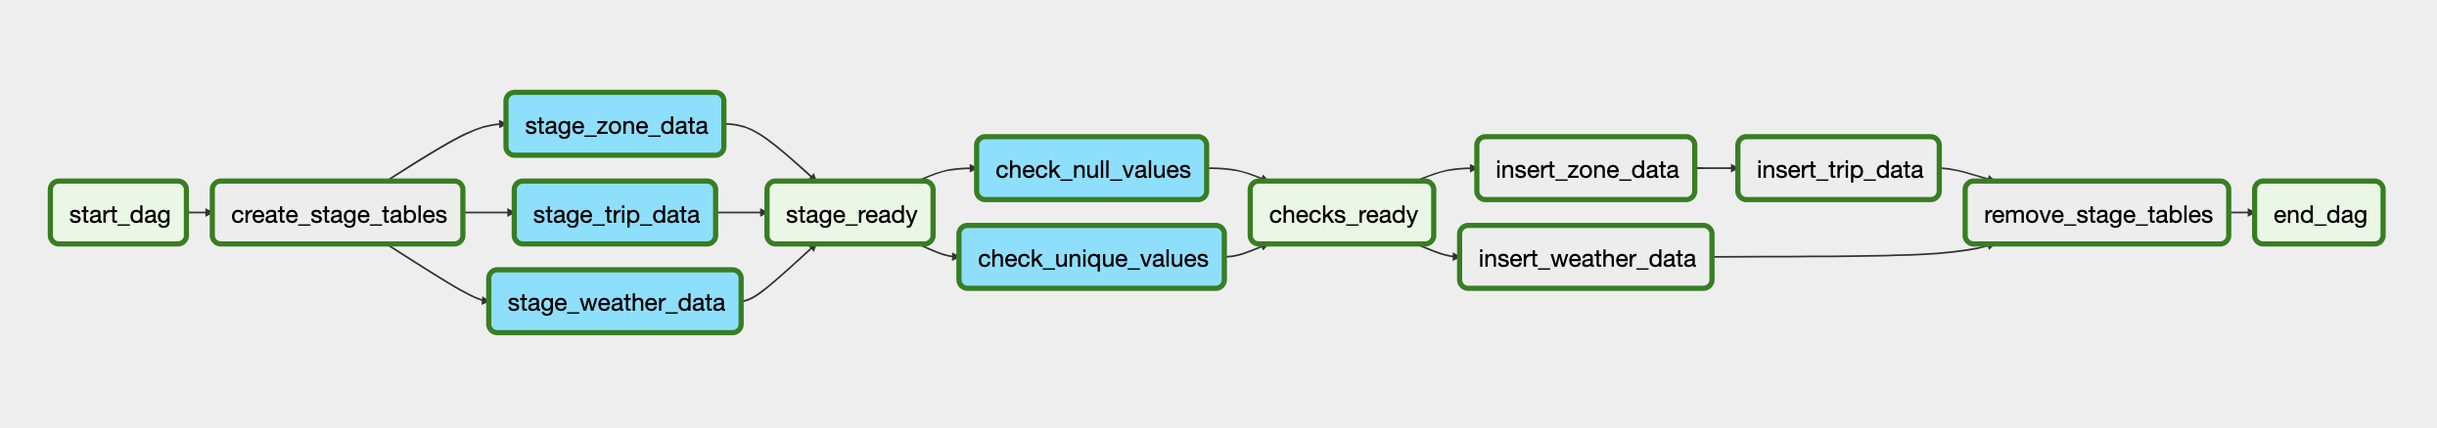
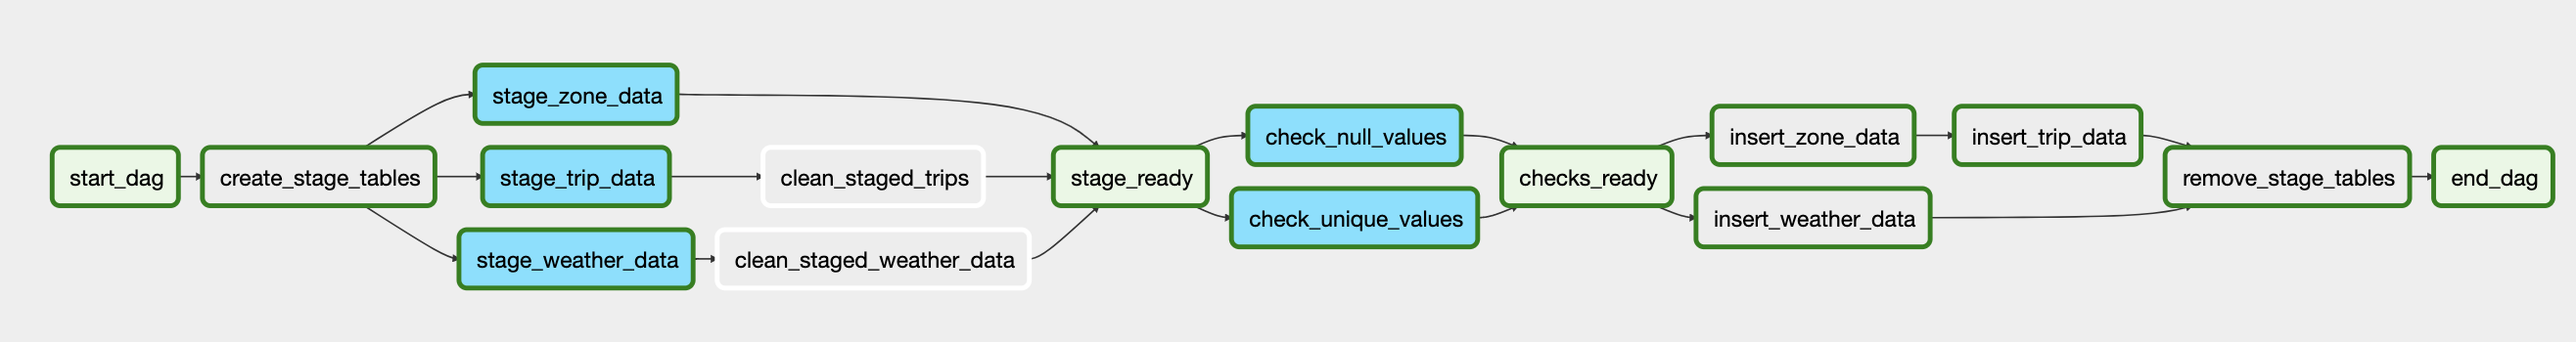
Create separate steps for cleaning staged data

Changed region(s): [[0.0, 0.2857, 1.0, 0.8571], [0.1546, 0.1714, 0.3402, 0.3714], [0.6494, 0.7143, 0.7731, 0.7429]]

diff --git a/airflow/dags/etl_dag.py b/airflow/dags/etl_dag.py
@@ -55,6 +55,16 @@ stage_trip_data_task = StageTripData(
     s3_key="trip data",
 )
 
+clean_trip_stage_data_task = PostgresOperator(
+    task_id="clean_staged_trips",
+    sql="""
+        delete from stage."trip_{{ ds }}"
+        where coalesce(trip_distance, 0) = 0 or vendorid is null;
+    """,
+    postgres_conn_id=redshift_config.get("CLUSTER", "CLUSTER_ID"),
+    dag=dag,
+)
+
 stage_weather_data_task = StageWeatherData(
     task_id="stage_weather_data",
     table='stage."weather_{{ ds }}"',
@@ -62,6 +72,16 @@ stage_weather_data_task = StageWeatherData(
     s3_bucket="dend-capstone-somi",
     s3_key="weather",
     redshift_conn_id=redshift_config.get("CLUSTER", "CLUSTER_ID"),
+)
+
+clean_weather_stage_data_task = PostgresOperator(
+    task_id="clean_staged_weather_data",
+    sql="""
+        delete from stage."weather_{{ ds }}"
+        where station != 'USW00094728';
+    """,
+    postgres_conn_id=redshift_config.get("CLUSTER", "CLUSTER_ID"),
+    dag=dag,
 )
 
 stage_zone_data_task = StageZoneData(
@@ -163,9 +183,12 @@ create_stage_tables_task >> stage_trip_data_task
 create_stage_tables_task >> stage_weather_data_task
 create_stage_tables_task >> stage_zone_data_task
 
-stage_trip_data_task >> stage_ready_task
+stage_trip_data_task >> clean_trip_stage_data_task
+stage_weather_data_task >> clean_weather_stage_data_task
+
+clean_trip_stage_data_task >> stage_ready_task
 stage_zone_data_task >> stage_ready_task
-stage_weather_data_task >> stage_ready_task
+clean_weather_stage_data_task >> stage_ready_task
 
 stage_ready_task >> check_nulls_task
 stage_ready_task >> check_unique_tasks

diff --git a/airflow/plugins/operators/stage_trip_data.py b/airflow/plugins/operators/stage_trip_data.py
@@ -62,10 +62,6 @@ class StageTripData(BaseOperator):
                 delimiter ','
                 ignoreheader 1
                 manifest;
-
-                -- Remove trips that has no trip distance
-                delete from {self.table}
-                where coalesce(trip_distance, 0) = 0 or vendorid is null;
             """
         )
         logging.info(f"Copied data from {source_path}")

diff --git a/airflow/plugins/operators/stage_weather_data.py b/airflow/plugins/operators/stage_weather_data.py
@@ -60,10 +60,6 @@ class StageWeatherData(BaseOperator):
                 json 'auto ignorecase'
                 timeformat 'epochmillisecs'
                 manifest;
-
-                -- Delete other stations
-                delete from {self.table}
-                where station != 'USW00094728'
             """
         )
         logging.info(f"Copied data from {source_path}")
